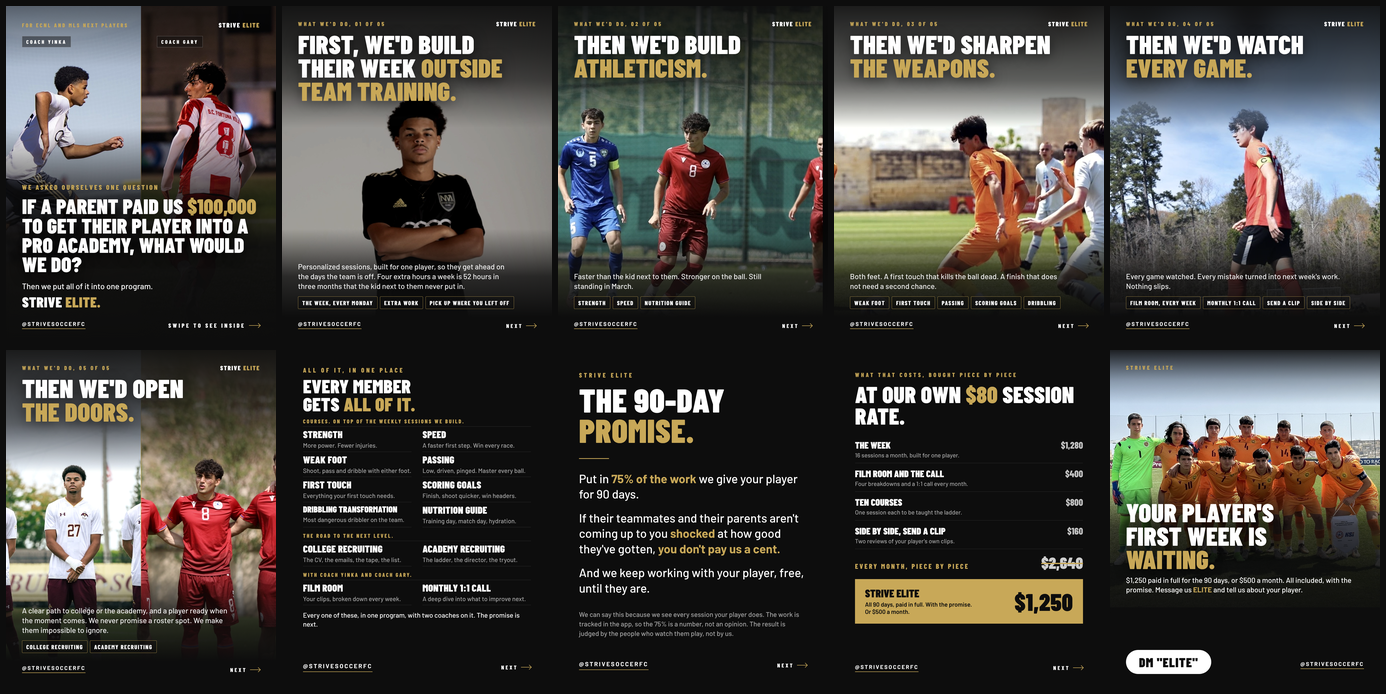
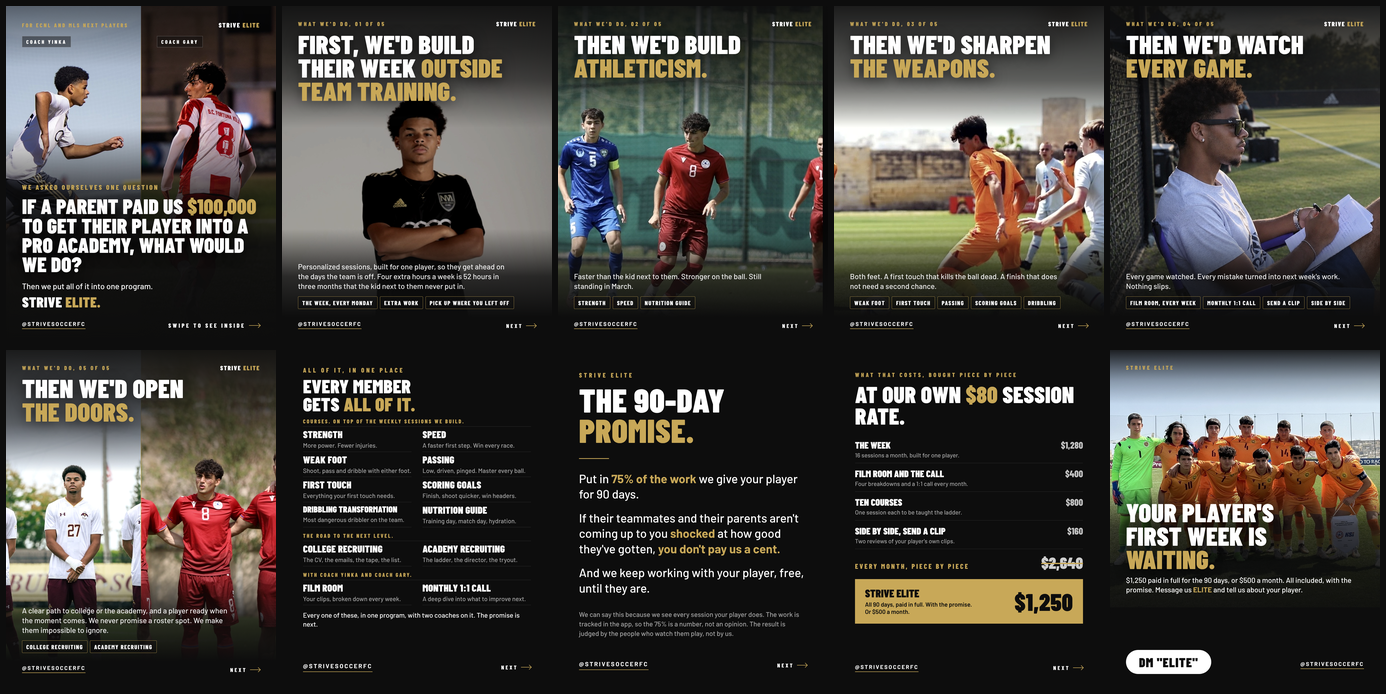
Offer carousel: sideline photo on step 4
Claude-Session: https://claude.ai/code/session_011JsCTTjCbUkHbTuWTKQSXJ

Changed region(s): [[0.7756, 0.0303, 1.0, 0.4236]]

diff --git a/marketing/announcement/offer-post/compose-photos.py b/marketing/announcement/offer-post/compose-photos.py
@@ -29,7 +29,7 @@ def comp(src,k,head,target,out,canvas=(1080,1350),mirror=False,band_bright=.8,gr
 comp("yinka-nva-studio.jpg",1.3,(609,289),(540,535),"photos/step1.jpg",grade=(.72,1.18))  # step 1: the studio portrait, his "different picture" Nov 4; the grey backdrop graded down toward brand black
 comp("gary-armenia-u19.jpg",1.3,(780,470),(540,490),"photos/step2.jpg")
 comp("gary-armenia-u16.jpg",1.5,(575,160),(540,510),"photos/step3.jpg")
-comp("gary-ecnl-captain.jpg",1.6,(340,95),(540,490),"photos/step4.jpg")
+comp("yinka-sideline-notes.jpg",1.4,(300,520),(420,500),"photos/step4.jpg")  # step 4: Coach Yinka on the sideline with the notebook, his pick Nov 4; he looks right, so the face sits a touch left of centre and the notebook stays in frame (ECNL photo kept in src)
 l=comp("yinka-college-lineup.jpg",0.9,(540,270),(270,510),None,(540,1350))
 r=comp("gary-armenia-u19-lineup.jpg",0.72,(587,703),(270,510),None,(540,1350))  # Gary in the middle of the Armenia line, his pick Nov 4 (Koln photo kept in src)
 c=Image.new("RGB",(1080,1350),(13,13,13)); c.paste(l,(0,0)); c.paste(r,(540,0)); c.save("photos/step5.jpg",quality=92)

diff --git a/CLAUDE.md b/CLAUDE.md
@@ -3408,6 +3408,15 @@ commit.
       in marketing/announcement/strive-elite-offer-post.md. Not posted;
       the paid-in-full price, the promise mechanics and Stripe are
       still his.
+      THEN (Coach Yinka sent a photo of himself on the sideline in a
+      chair, sunglasses, notebook and pen, the pitch behind him: "For
+      we'd watch every game use this picture"): STEP 4 is that photo
+      (photos/src/yinka-sideline-notes.jpg, 1.4x), the headline in the
+      sky, his face clear under it, the notebook in the frame under
+      the copy. He looks to the right, so his face sits a touch left
+      of centre (x 420) and the frame balances on the pitch he is
+      watching; a dead-centre crop pushed the notebook out. Gary's
+      ECNL captain photo stays in src. Preview strip rebuilt. Sent.
 
 ## Growth target (stamped Sept 19, Coach Yinka's own call)
 
